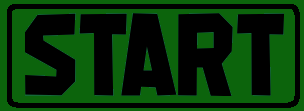
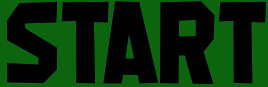
kle ränder

diff --git a/src/StartScreen.java b/src/StartScreen.java
@@ -1,6 +1,7 @@
 import javax.swing.*;
 import java.awt.*;
 import java.awt.event.*;
+import javax.swing.border.*;
 
 public class StartScreen extends JPanel implements ActionListener{
 
@@ -17,13 +18,14 @@ public class StartScreen extends JPanel implements ActionListener{
     public boolean start_game = false;
     private PlayerType choosen_player = PlayerType.NONE;
 
-    //public LineBorder border = new LineBorder(new Color(200,170,0), 5);
+    public Border border = new LineBorder(Constants.GOLD, 8);
+
 
 /******************************************CONSTRUCTORS********************************************/
     
     public StartScreen() {
         this.setLayout(null);
-        this.setBackground(new Color(Constants.RED, Constants.GREEN, Constants.BLUE));
+        this.setBackground(Constants.GREEN);
         this.setVisible(true);
     }
 
@@ -37,22 +39,27 @@ public class StartScreen extends JPanel implements ActionListener{
 	public void actionPerformed(ActionEvent e) {
 
 		if(e.getSource() == player_1_btn) {
+            unsetAllBorders();
             choosen_player = PlayerType.PLAYER_1;
+            player_1_btn.setBorder(border);
 		}
         if(e.getSource() == player_2_btn) {
+            unsetAllBorders();
             choosen_player = PlayerType.PLAYER_2;
+            player_2_btn.setBorder(border);
 		}
         if(e.getSource() == player_3_btn) {
+            unsetAllBorders();
             choosen_player = PlayerType.PLAYER_3;
+            player_3_btn.setBorder(border);
 		}
         if(e.getSource() == player_4_btn) {
+            unsetAllBorders();
             choosen_player = PlayerType.PLAYER_4;
+            player_4_btn.setBorder(border);
 		}
         if(e.getSource() == start_btn) {
-            if(choosen_player == PlayerType.NONE) {
-                System.out.println("CHOOSE A PLAYER!");
-            }
-            else {
+            if(choosen_player != PlayerType.NONE) {
                 start_game = true;
             }
 		}
@@ -62,33 +69,38 @@ public class StartScreen extends JPanel implements ActionListener{
         ImageIcon character_image = new ImageIcon("players/player1.png");
         Image resized = character_image.getImage().getScaledInstance(Constants.CHARACTER_IMAGE_WIDTH, Constants.CHARACTER_IMAGE_HEIGHT, java.awt.Image.SCALE_SMOOTH);
         player_1_btn = new JButton(new ImageIcon(resized));
-        player_1_btn.setSize(Constants.CHARACTER_IMAGE_WIDTH, Constants.CHARACTER_IMAGE_HEIGHT);
+        player_1_btn.setSize(Constants.CHARACTER_IMAGE_WIDTH + Constants.CHARACTER_IMAGE_BORDER, Constants.CHARACTER_IMAGE_HEIGHT + Constants.CHARACTER_IMAGE_BORDER);
         player_1_btn.addActionListener(this);
+        player_1_btn.setBackground(Color.BLACK);
 
         character_image = new ImageIcon("players/player2.png");
         resized = character_image.getImage().getScaledInstance(Constants.CHARACTER_IMAGE_WIDTH, Constants.CHARACTER_IMAGE_HEIGHT, java.awt.Image.SCALE_SMOOTH);
         player_2_btn = new JButton(new ImageIcon(resized));
-        player_2_btn.setSize(Constants.CHARACTER_IMAGE_WIDTH, Constants.CHARACTER_IMAGE_HEIGHT);
+        player_2_btn.setSize(Constants.CHARACTER_IMAGE_WIDTH + Constants.CHARACTER_IMAGE_BORDER, Constants.CHARACTER_IMAGE_HEIGHT + Constants.CHARACTER_IMAGE_BORDER);
         player_2_btn.addActionListener(this);
+        player_2_btn.setBackground(Color.BLACK);
 
         character_image = new ImageIcon("players/player3.png");
         resized = character_image.getImage().getScaledInstance(Constants.CHARACTER_IMAGE_WIDTH, Constants.CHARACTER_IMAGE_HEIGHT, java.awt.Image.SCALE_SMOOTH);
         player_3_btn = new JButton(new ImageIcon(resized));
-        player_3_btn.setSize(Constants.CHARACTER_IMAGE_WIDTH, Constants.CHARACTER_IMAGE_HEIGHT);
+        player_3_btn.setSize(Constants.CHARACTER_IMAGE_WIDTH + Constants.CHARACTER_IMAGE_BORDER, Constants.CHARACTER_IMAGE_HEIGHT + Constants.CHARACTER_IMAGE_BORDER);
         player_3_btn.addActionListener(this);
+        player_3_btn.setBackground(Color.BLACK);
 
         character_image = new ImageIcon("players/player4.png");
         resized = character_image.getImage().getScaledInstance(Constants.CHARACTER_IMAGE_WIDTH, Constants.CHARACTER_IMAGE_HEIGHT, java.awt.Image.SCALE_SMOOTH);
         player_4_btn = new JButton(new ImageIcon(resized));
-        player_4_btn.setSize(Constants.CHARACTER_IMAGE_WIDTH, Constants.CHARACTER_IMAGE_HEIGHT);
+        player_4_btn.setSize(Constants.CHARACTER_IMAGE_WIDTH + Constants.CHARACTER_IMAGE_BORDER, Constants.CHARACTER_IMAGE_HEIGHT + Constants.CHARACTER_IMAGE_BORDER);
         player_4_btn.addActionListener(this);        
+        player_4_btn.setBackground(Color.BLACK);
     }
 
     public void initStartButton() {
         ImageIcon start_btn_image = new ImageIcon("buttons/start.png");
         Image resized = start_btn_image.getImage().getScaledInstance(Constants.START_BUTTON_WIDTH, Constants.START_BUTTON_HEIGHT, java.awt.Image.SCALE_SMOOTH);
         start_btn = new JButton(new ImageIcon(resized));
-        start_btn.setSize(Constants.START_BUTTON_WIDTH, Constants.START_BUTTON_HEIGHT);
+        start_btn.setSize(Constants.START_BUTTON_WIDTH + Constants.START_BUTTON_BORDER, Constants.START_BUTTON_HEIGHT + Constants.START_BUTTON_BORDER);
+        start_btn.setBackground(Color.BLACK);
         start_btn.addActionListener(this);
     }
 
@@ -101,8 +113,12 @@ public class StartScreen extends JPanel implements ActionListener{
 
 
 /******************************************PRIVATE-METHODES****************************************/
-
-
+    private void unsetAllBorders() {
+        player_1_btn.setBorder(null);
+        player_2_btn.setBorder(null);
+        player_3_btn.setBorder(null);
+        player_4_btn.setBorder(null);
+    }
 }
 
 

diff --git a/src/Constants.java b/src/Constants.java
@@ -1,15 +1,21 @@
+import javax.swing.*;
+import java.awt.*;
+import java.util.*;
+import java.awt.event.*;
+import javax.swing.border.*;
+
 public class Constants {
 
     //!Game
     public static final int TOTAL_CARDS = 52;
     public static final int NUM_PLAYERS = 4;
 
-    public static final int RED = 12;
-    public static final int GREEN = 100;
-    public static final int BLUE = 12;
-
     public static final int NUM_CARDS_IN_HAND = 4;
     public static final int NUM_CARDS_ON_BOARD = 4;
+    public static final int MAX_CARDS_PER_ROW = 10;
+
+    public static final Color GREEN = new Color(12,100,12);
+    public static final Color GOLD = new Color(200,170,0);
 
     public static final int SLEEP_BETWEEN_DEALING = 200;
 
@@ -71,33 +77,38 @@ public class Constants {
     public static final int CHARACTER_IMAGE_WIDTH = 200;
     public static final int CHARACTER_IMAGE_HEIGHT = 250;
 
-    public static final int PLAYER_1_BUTTON_X = 340;
-    public static final int PLAYER_2_BUTTON_X = 580;
-    public static final int PLAYER_3_BUTTON_X = 820;
-    public static final int PLAYER_4_BUTTON_X = 1060;
+    public static final int CHARACTER_IMAGE_BORDER = 15;
+
+    public static final int PLAYER_1_BUTTON_X = 290;
+    public static final int PLAYER_2_BUTTON_X = 530;
+    public static final int PLAYER_3_BUTTON_X = 770;
+    public static final int PLAYER_4_BUTTON_X = 1010;
     public static final int PLAYER_BUTTON_Y = 300;
 
-    public static final int START_BUTTON_WIDTH = 340;
-    public static final int START_BUTTON_HEIGHT = 100;
+    public static final int START_BUTTON_WIDTH = 250;
+    public static final int START_BUTTON_HEIGHT = 75;
+    
+    public static final int START_BUTTON_BORDER = 20;
 
-    public static final int START_BUTTON_X = 630;
+    public static final int START_BUTTON_X = 625;
     public static final int START_BUTTON_Y = 650;
 
-    public static final int CHOOSE_PLAYER_LABEL_X = 450;
+    public static final int CHOOSE_PLAYER_LABEL_X = 425;
     public static final int CHOOSE_PLAYER_LABEL_Y = 120;
 
-    public static final int CHOOSE_PLAYER_LABEL_WIDTH = 700;
+    public static final int CHOOSE_PLAYER_LABEL_WIDTH = 650;
     public static final int CHOOSE_PLAYER_LABEL_HEIGHT = 60;
 
     //!Board
-    public static final int CARDS_MOST_LEFT_POSITION = 400;
+    public static final int CARDS_MOST_LEFT_POSITION = 350;
 
     public static final int PLAYER_CARD_DISTANCE = 100;
-    public static final int BOARD_CARD_DISTANCE = 120;
+    public static final int BOARD_CARD_DISTANCE = 110;
 
     public static final int PLAYER_CARD_Y = 800;
     public static final int BOT_CARD_Y = 50;
-    public static final int BOARD_CARD_Y = 350;
+    public static final int BOARD_UPPER_CARD_Y = 350;
+    public static final int BOARD_LOWER_CARD_Y = 490;
 
     //!Card
     public static final int CARD_WIDTH = 90;

diff --git a/src/Game.java b/src/Game.java
@@ -8,7 +8,8 @@ public class Game {
     static Player player;
     static Deck deck;
 
-    static int next_board_card_x;
+    static int current_X_board = Constants.CARDS_MOST_LEFT_POSITION;
+    static int current_Y_board = Constants.BOARD_UPPER_CARD_Y;
 
     static ActivePlayer active_player = ActivePlayer.NONE;
     public static void main(String[] args) throws Exception {
@@ -65,8 +66,8 @@ public class Game {
         board.add(board.put_btn);
         board.add(board.take_btn);
 
-        board.put_btn.setLocation(1200,830);
-        board.take_btn.setLocation(1400,830);
+        board.put_btn.setLocation(1150,830);
+        board.take_btn.setLocation(1300,830);
     }
 
     static void initPlayer() {
@@ -124,18 +125,16 @@ public class Game {
     }
 
     static void dealBoardCards() throws InterruptedException {
-        int X = Constants.CARDS_MOST_LEFT_POSITION;
         for(int num_card = 0; num_card < Constants.NUM_CARDS_ON_BOARD; num_card++) {
             Card card = deck.getCard();
             card.type = CardType.BOARD_CARD;
             board.cards.add(card);
             board.add(card);
             deck.num_cards_label.setText(Integer.toString(deck.cards.size()));
-            card.setLocation(X, Constants.BOARD_CARD_Y);
-            X += Constants.BOARD_CARD_DISTANCE;
+            card.setLocation(current_X_board, Constants.BOARD_UPPER_CARD_Y);
+            current_X_board += Constants.BOARD_CARD_DISTANCE;
             Thread.sleep(Constants.SLEEP_BETWEEN_DEALING);
         }
-        next_board_card_x = X;
     }
 
     static void executeAction() throws InterruptedException{
@@ -155,8 +154,9 @@ public class Game {
                 Card card_to_put = player.putCard();
                 board.cards.add(card_to_put);
                 board.add(card_to_put);
-                card_to_put.setLocation(next_board_card_x, Constants.BOARD_CARD_Y);
-                next_board_card_x += Constants.BOARD_CARD_DISTANCE;
+                card_to_put.setLocation(current_X_board, current_Y_board);
+                current_X_board = board.cards.size() % Constants.MAX_CARDS_PER_ROW == 0? Constants.CARDS_MOST_LEFT_POSITION : current_X_board + Constants.BOARD_CARD_DISTANCE;
+                current_Y_board = board.cards.size() >= Constants.MAX_CARDS_PER_ROW ? Constants.BOARD_LOWER_CARD_Y: Constants.BOARD_UPPER_CARD_Y; 
                 card_to_put.setVisible(true);
                 board.current_move = PlayMove.NONE;
                 break;

diff --git a/src/Board.java b/src/Board.java
@@ -2,6 +2,7 @@ import javax.swing.*;
 import java.awt.*;
 import java.util.*;
 import java.awt.event.*;
+import javax.swing.border.*;
 
 
 enum PlayMove {PUT, TAKE, NONE};
@@ -17,11 +18,12 @@ public class Board extends JPanel implements ActionListener{
     public JButton log;
 
     public PlayMove current_move = PlayMove.NONE;
+    public Border border = new LineBorder(new Color(200,170,0), 5);
 
 /******************************************CONSTRUCTORS********************************************/
     public Board() {
         this.setLayout(null);
-        this.setBackground(new Color(Constants.RED, Constants.GREEN, Constants.BLUE));
+        this.setBackground(Constants.GREEN);
     }
 
 /******************************************PUBLIC-METHODES*****************************************/
@@ -39,15 +41,18 @@ public class Board extends JPanel implements ActionListener{
 
     public void initButtons() {
         ImageIcon image = new ImageIcon("buttons/put.png");
-        Image resized = image.getImage().getScaledInstance(120, 70, java.awt.Image.SCALE_SMOOTH);
+        Image resized = image.getImage().getScaledInstance(100, 60, java.awt.Image.SCALE_SMOOTH);
         put_btn = new JButton(new ImageIcon(resized));
-        put_btn.setSize(120, 70);
+        put_btn.setSize(110, 70);
+        put_btn.addActionListener(this);
+        put_btn.setBackground(Color.black);
         put_btn.addActionListener(this);
 
         image = new ImageIcon("buttons/take.png");
-        resized = image.getImage().getScaledInstance(150, 70, java.awt.Image.SCALE_SMOOTH);
+        resized = image.getImage().getScaledInstance(120, 60, java.awt.Image.SCALE_SMOOTH);
         take_btn = new JButton(new ImageIcon(resized));
-        take_btn.setSize(150, 70);
+        take_btn.setSize(130, 70);
+        take_btn.setBackground(Color.black);
         take_btn.addActionListener(this);
     }
 

diff --git a/src/Card.java b/src/Card.java
@@ -1,4 +1,6 @@
 import javax.swing.*;
+import javax.swing.border.*;
+
 import java.awt.event.*;
 import java.awt.*;
 
@@ -23,6 +25,7 @@ public class Card extends JLabel{
     public final String PATH = "cards/";
     public final String PATH_END = ".png";
     
+    public Border border = new LineBorder(new Color(200,170,0), 5);
 
 /******************************************CONSTRUCTORS********************************************/
     
@@ -34,7 +37,7 @@ public Card(CardSuit type, int value) {
         Image resized = image.getImage().getScaledInstance(Constants.CARD_WIDTH, Constants.CARD_HEIGHT,  java.awt.Image.SCALE_SMOOTH);
         image = new ImageIcon(resized);
         this.setIcon(image);
-        this.setSize(Constants.CARD_WIDTH, Constants.CARD_HEIGHT);
+        this.setSize(Constants.CARD_WIDTH + 10, Constants.CARD_HEIGHT + 10);
 
         this.addMouseListener(new MouseAdapter() {
             public void mouseClicked(MouseEvent me) {
@@ -82,11 +85,11 @@ public Card(CardSuit type, int value) {
                 break;
             case BOARD_CARD:
                 if(this.state == State.INACTIVE) {
-                    this.setLocation(this.getLocation().x, this.getLocation().y - 10);
+                    this.setBorder(border);
                     state = State.ACTIVE_BOARD_CARD;
                 }
                 else {
-                    this.setLocation(this.getLocation().x, this.getLocation().y + 10);
+                    this.setBorder(null);
                     state = State.INACTIVE;
                 }
             default:

diff --git a/src/Frame.java b/src/Frame.java
@@ -4,7 +4,7 @@ public class Frame extends JFrame{
 /******************************************MEMBER-VARIABLES****************************************/
     
     private static final int WIDTH = 1000;
-    private static final int HEIGHT = 1600;
+    private static final int HEIGHT = 1500;
     
 /******************************************CONSTRUCTORS********************************************/
     
